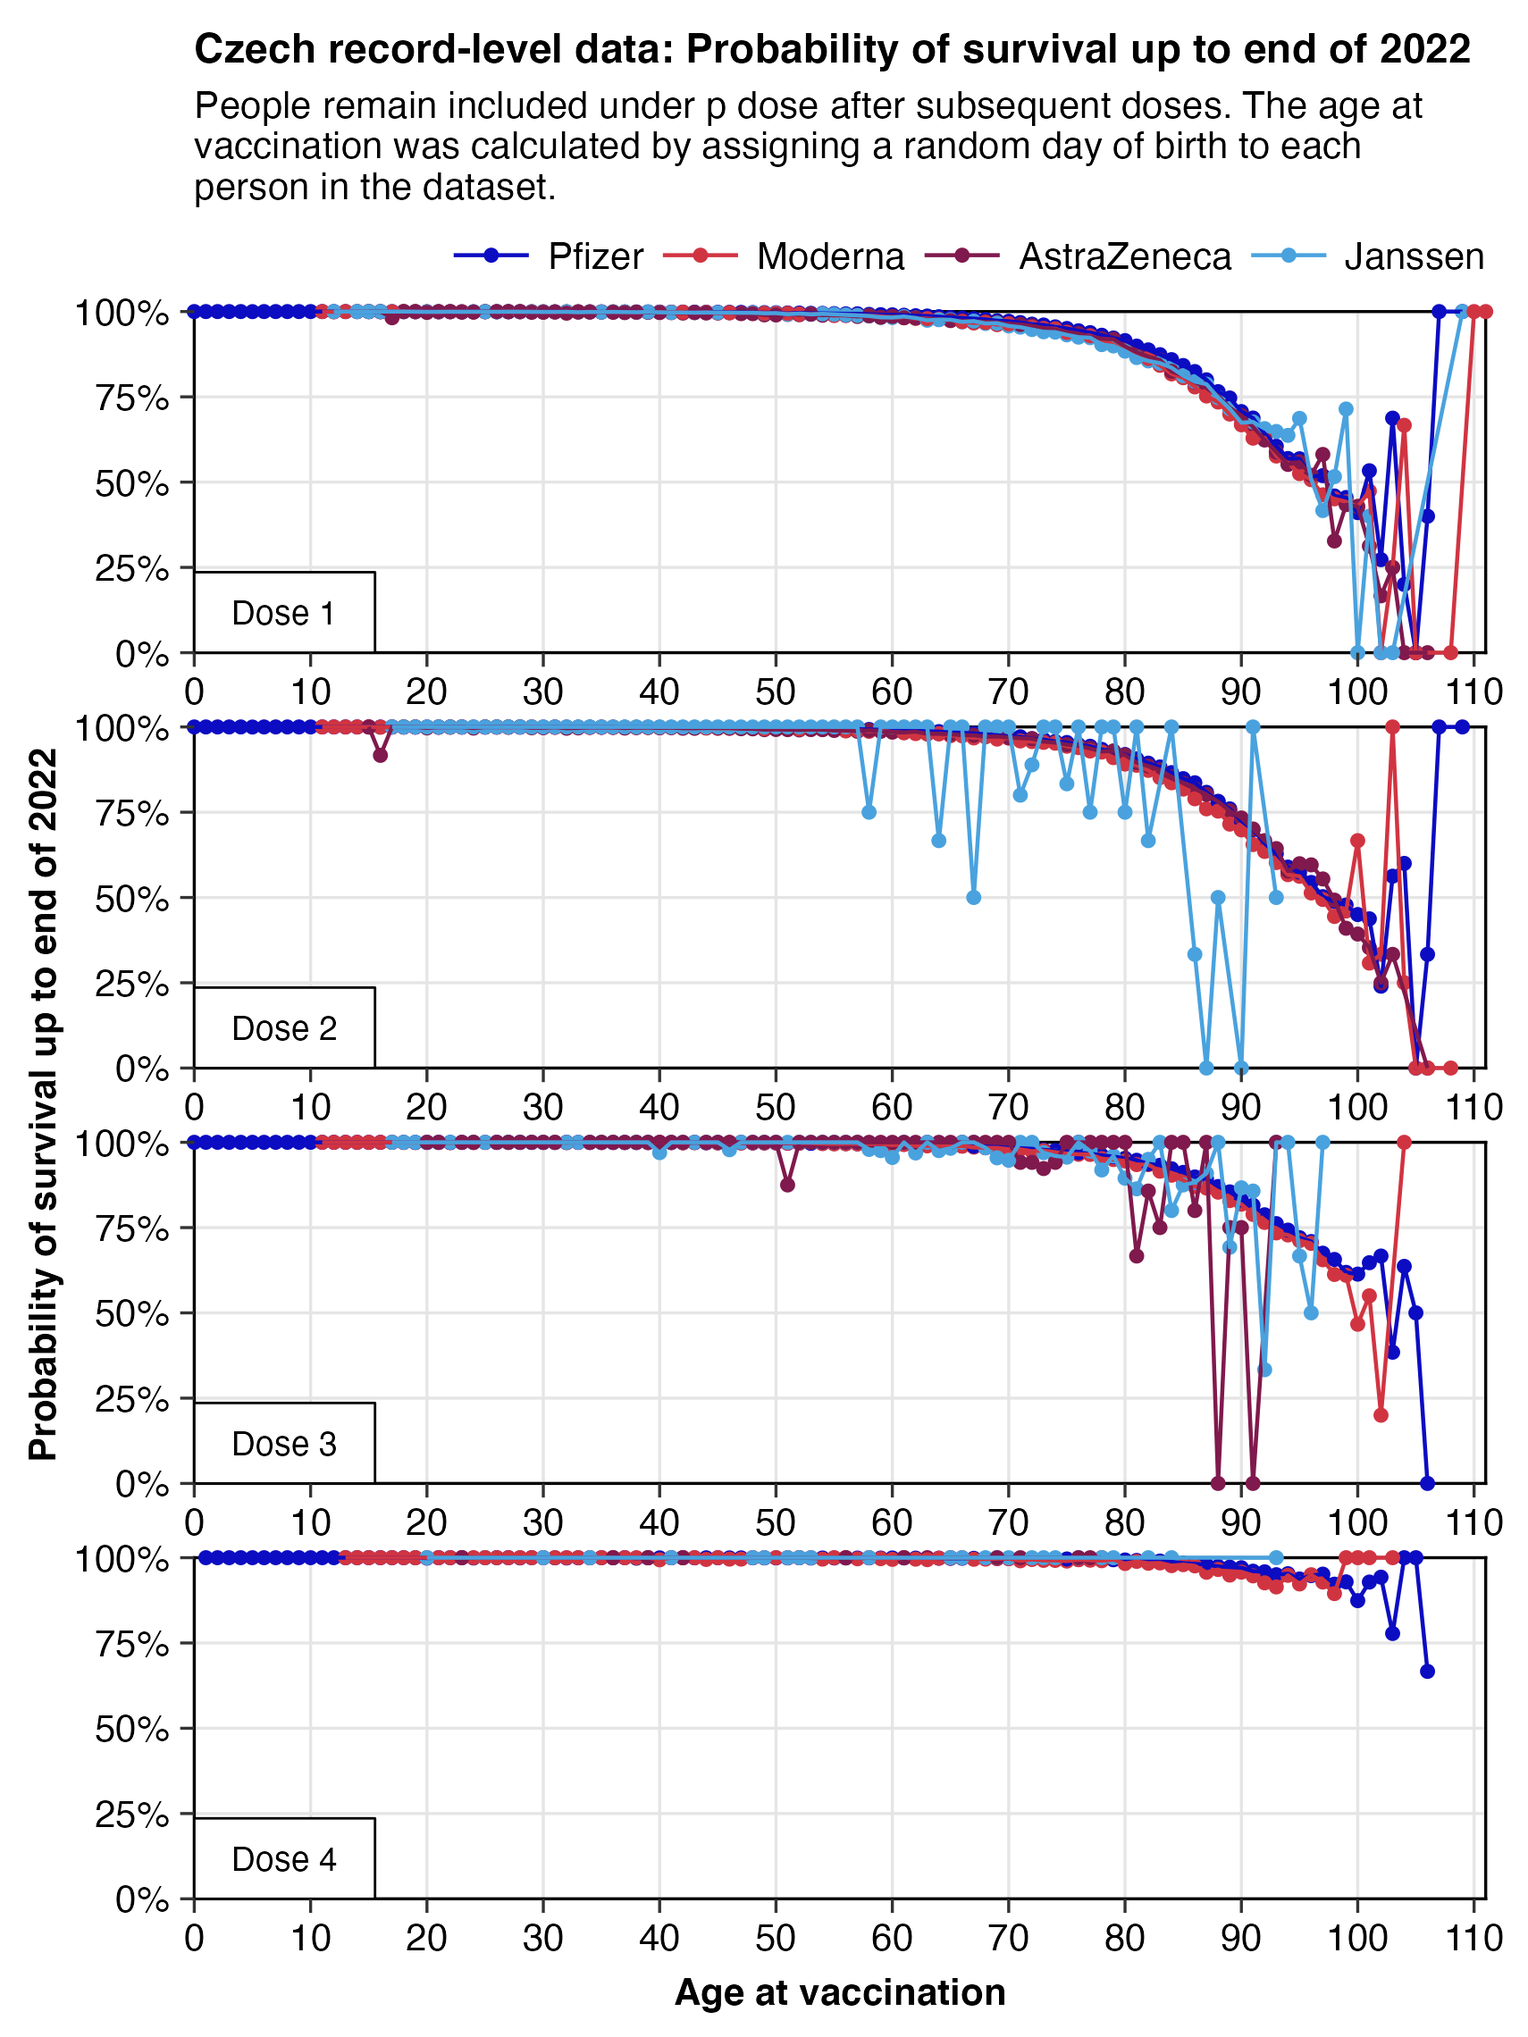
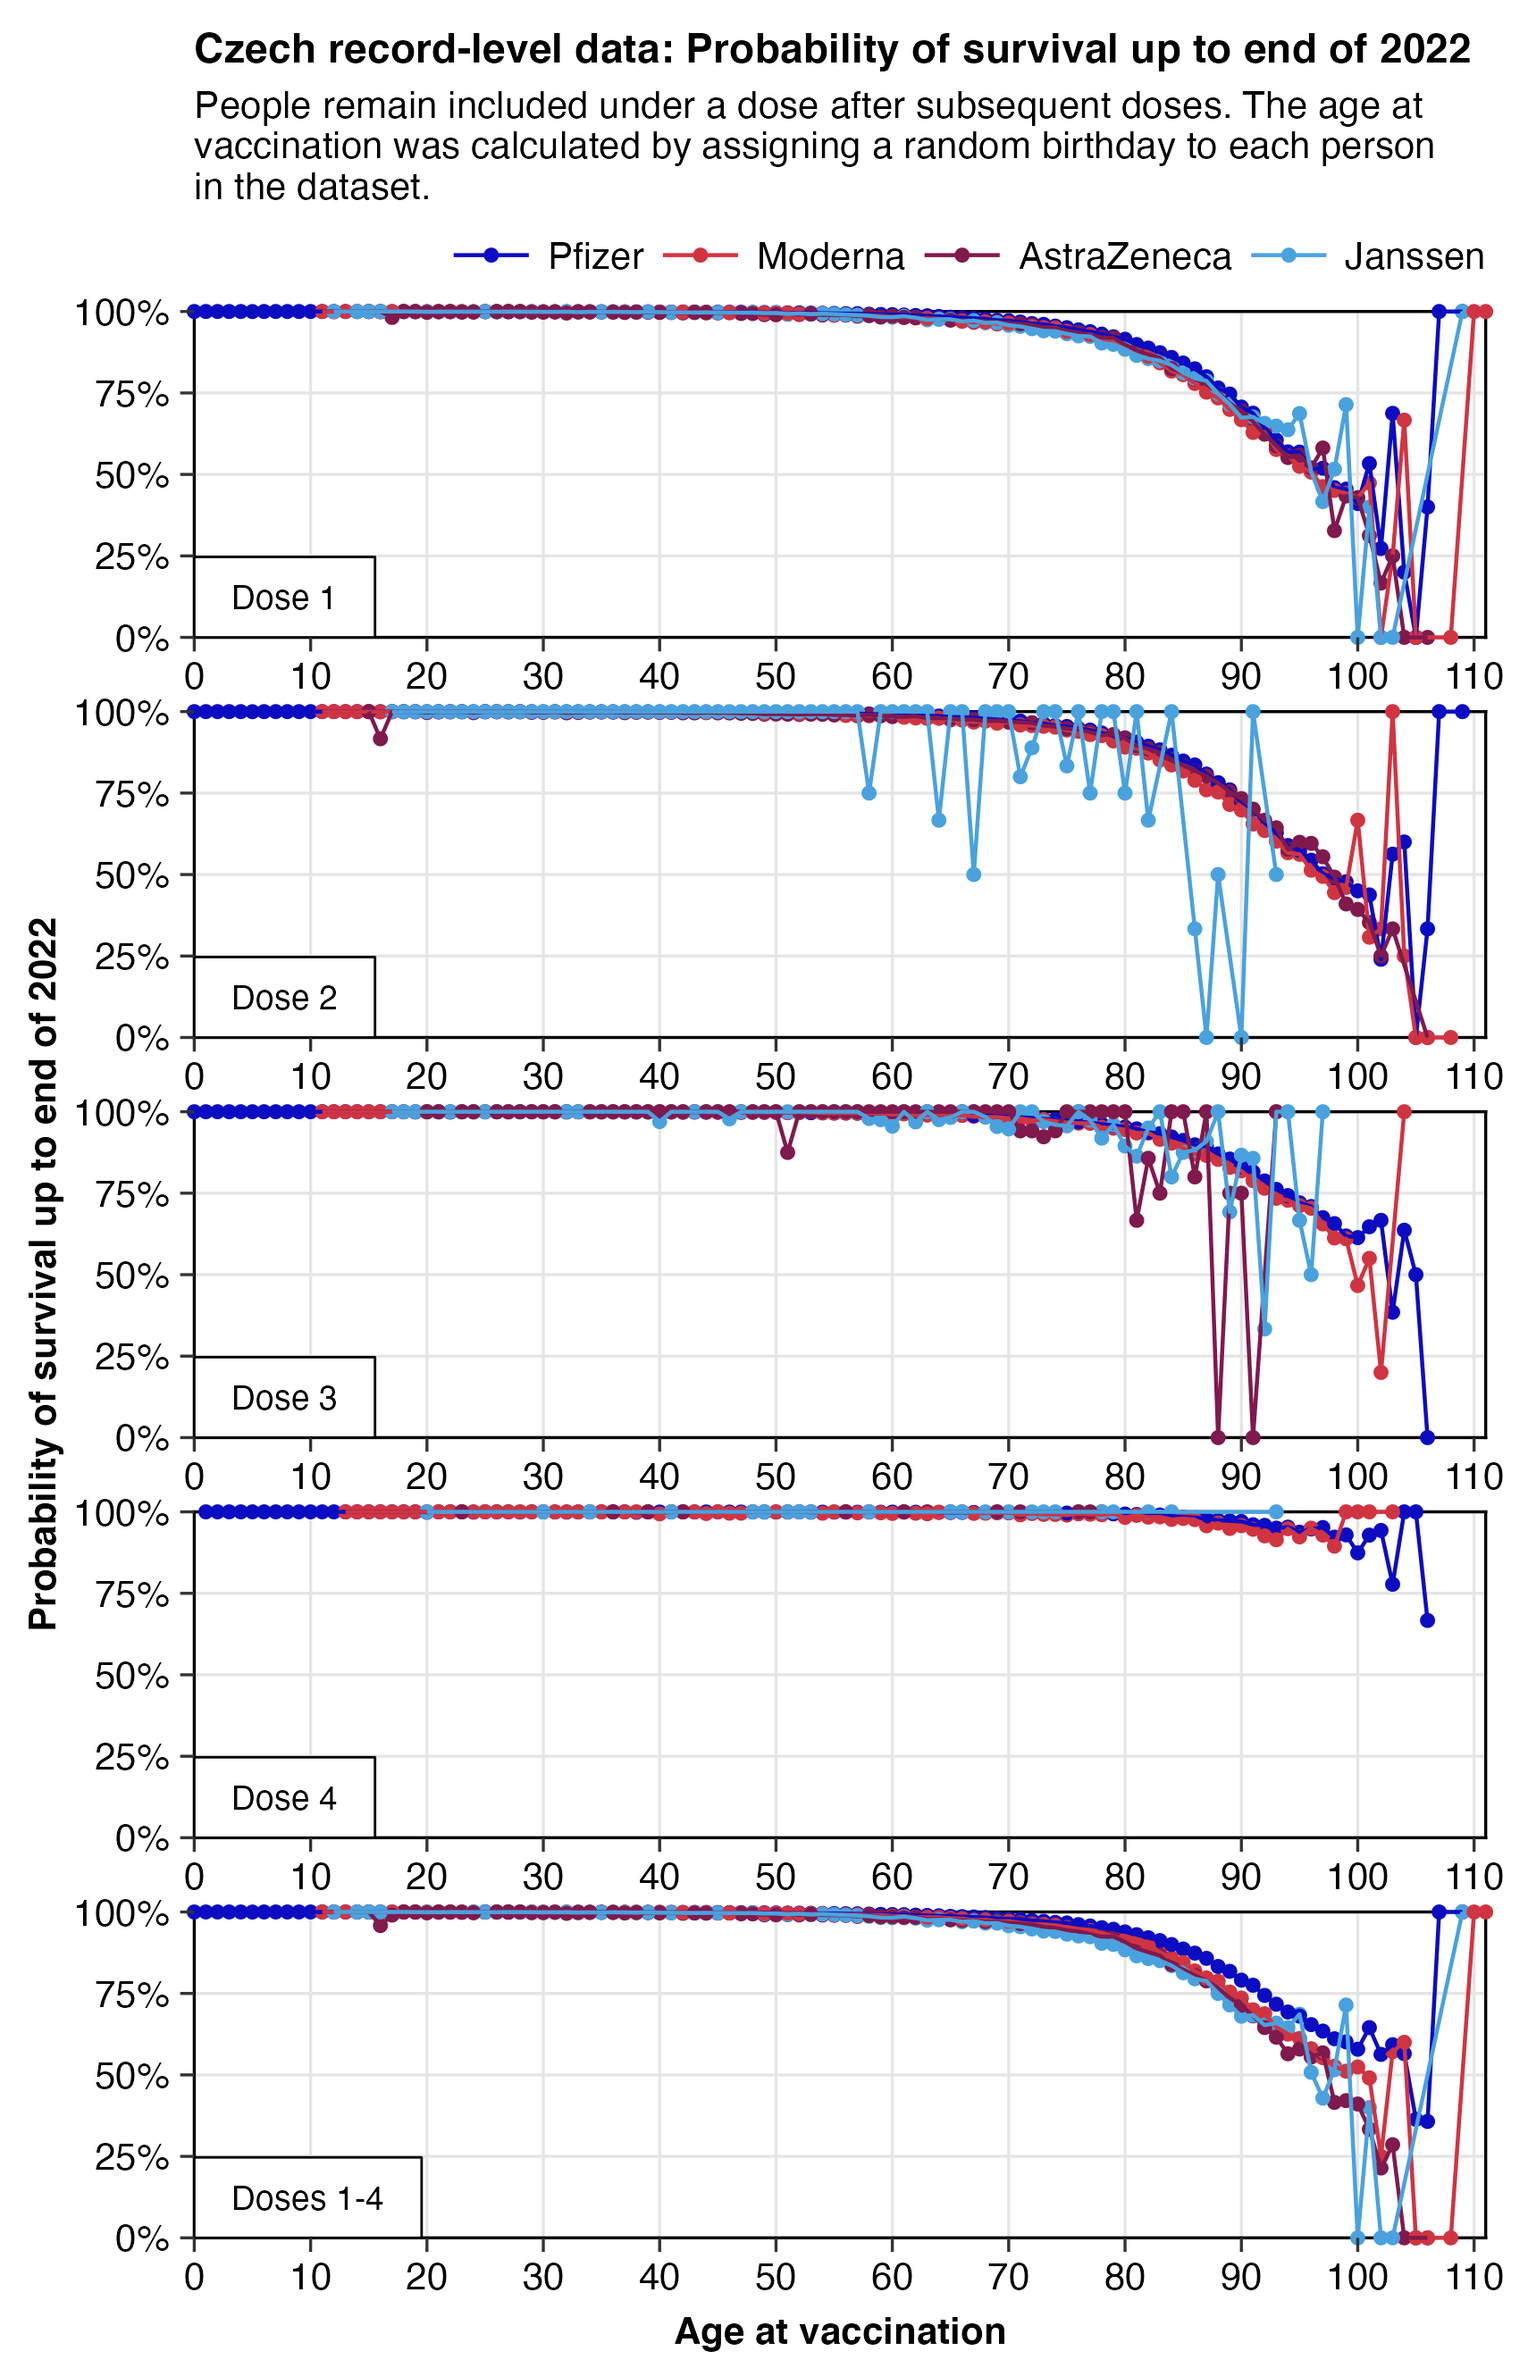
a

diff --git a/czech.html b/czech.html
@@ -2368,7 +2368,9 @@ name2[name1==&quot;COVID-19 Vaccine Janssen&quot;]=&quot;Janssen&quot;
 name2[name1==&quot;VAXZEVRIA&quot;]=&quot;AstraZeneca&quot;
 d$type=name2[match(d$type,name1)]
 
-p=d[dose&lt;=4&amp;type!=&quot;Novavax&quot;&amp;type!=&quot;Other&quot;&amp;type!=&quot;&quot;,.(pop=.N,dead=sum(!is.na(death))),.(age=age(birth,date),type,dose)]
+p=d[dose&lt;=4&amp;type!=&quot;Novavax&quot;&amp;type!=&quot;Other&quot;&amp;type!=&quot;&quot;]
+p=p[,.(pop=.N,dead=sum(!is.na(death))),.(age=age(birth,date),type,dose=paste0(&quot;Dose &quot;,dose))]
+p=rbind(p,p[,.(pop=sum(pop),dead=sum(dead),dose=&quot;Doses 1-4&quot;),.(age,type)])
 p[,survival:=(1-(dead/pop))*100]
 
 xstart=0;xend=max(p$age);xstep=10;ystart=0;yend=100;ystep=10
@@ -2377,7 +2379,7 @@ p$type=factor(p$type,p[,sum(as.double(pop)),type][order(-V1)]$type)
 color=hsv(c(240,355,330,204,36)/360,c(.94,.75,.8,.67,.64),c(.76,.82,.5,.87,.95))
 pointsize=c(1e4,3e4,1e5,3e5)
 
-sub=&quot;People remain included under p dose after subsequent doses. The age at vaccination was calculated by assigning a random day of birth to each person in the dataset.&quot;|&gt;stringr::str_wrap(73)
+sub=&quot;People remain included under a dose after subsequent doses. The age at vaccination was calculated by assigning a random birthday to each person in the dataset.&quot;|&gt;stringr::str_wrap(73)
 
 ggplot(p,aes(x=age,y=survival))+
 facet_wrap(~dose,ncol=1,scales=&quot;free_x&quot;,strip.position=&quot;top&quot;)+
@@ -2385,7 +2387,7 @@ geom_vline(xintercept=c(xstart,xend),linewidth=.3,lineend=&quot;square&quot;)+
 geom_hline(yintercept=c(ystart,yend),linewidth=.3,lineend=&quot;square&quot;)+
 geom_point(aes(color=type),size=1.5,stroke=0)+
 geom_line(aes(color=type),linewidth=.4)+
-geom_label(data=data.frame(dose=unique(p$dose)),aes(label=paste0(&quot;\n    Dose &quot;,dose,&quot;    \n&quot;)),x=xstart,y=0,lineheight=.7,hjust=0,vjust=0,size=2.5,fill=alpha(&quot;white&quot;,1),label.r=unit(0,&quot;lines&quot;),label.padding=unit(0,&quot;lines&quot;),label.size=.25)+
+geom_label(data=data.frame(dose=unique(p$dose)),aes(label=paste0(&quot;\n    &quot;,dose,&quot;    \n&quot;)),x=xstart,y=0,lineheight=.7,hjust=0,vjust=0,size=2.5,fill=alpha(&quot;white&quot;,1),label.r=unit(0,&quot;lines&quot;),label.padding=unit(0,&quot;lines&quot;),label.size=.25)+
 labs(title=&quot;Czech record-level data: Probability of survival up to end of 2022&quot;,x=&quot;Age at vaccination&quot;,y=&quot;Probability of survival up to end of 2022&quot;,subtitle=sub)+
 scale_x_continuous(limits=c(xstart,xend),breaks=seq(xstart,xend,xstep))+
 scale_y_continuous(labels=\(x)paste0(x,&quot;%&quot;))+
@@ -2401,7 +2403,7 @@ theme(axis.text=element_text(size=8,color=&quot;black&quot;),
   legend.key.height=unit(10,&quot;pt&quot;),
   legend.key.width=unit(20,&quot;pt&quot;),
   legend.key=element_rect(fill=&quot;white&quot;),
-  legend.margin=margin(0,0,7,0),
+  legend.margin=margin(,,7),
   legend.direction=&quot;horizontal&quot;,
   legend.box.just=&quot;right&quot;,
   legend.justification=c(1,.5),
@@ -2411,7 +2413,6 @@ theme(axis.text=element_text(size=8,color=&quot;black&quot;),
   legend.box.spacing=unit(0,&quot;pt&quot;),
   legend.spacing=unit(0,&quot;pt&quot;),
   legend.text=element_text(size=8),
-  # legend.title=element_text(size=8,face=&quot;bold&quot;,margin=margin(0,2,0,0)),
   legend.title=element_blank(),
   panel.background=element_rect(fill=&quot;white&quot;),
   panel.grid.major=element_line(linewidth=.3,color=&quot;gray90&quot;),
@@ -2421,11 +2422,11 @@ theme(axis.text=element_text(size=8,color=&quot;black&quot;),
   plot.margin=margin(5,9,5,5),
   plot.subtitle=element_text(size=8,margin=margin(,,5)),
   plot.title=element_text(size=8.8,face=&quot;bold&quot;,margin=margin(2,,4)))
-ggsave(&quot;1.png&quot;,width=4.5,height=6,dpi=380)</pre>
+ggsave(&quot;1.png&quot;,width=4.5,height=7,dpi=380)</pre>
 <h2>
 <a href=#ASMR_by_month_and_vaccine_type id=ASMR_by_month_and_vaccine_type>ASMR by month and vaccine type</a>
 </h2>
-<p>I figured out one way to compare the efficacy of different vaccine types, which is to look at how big the spike in ASMR is during the COVID wave in November to December 2021. However the spike seems to be lower for Pfizer and Moderna but higher for AstraZeneca and Janssen:</p>
+<p>I figured out one way to compare the efficacy of different vaccine types, which is to look at how big the spike in ASMR is during the COVID wave in November to December 2021. However the spike seems to be more flat for people whose first dose was Pfizer and Moderna, but the spike is more pronounced for people whose first dose was AstraZeneca and Janssen:</p>
 <div class="width6">
 <img src="i/czech-asmrtype.png">
 </div>
@@ -2483,8 +2484,7 @@ theme(axis.text=element_text(size=7,color=&quot;black&quot;),
   plot.margin=margin(4,10,4,4),
   plot.subtitle=element_text(size=7,margin=margin(0,0,4,0)),
   plot.title=element_text(size=7.5,face=&quot;bold&quot;,margin=margin(2,0,4,0)))
-ggsave(&quot;1.png&quot;,width=4.5,height=2.6,dpi=400)
-qp()</pre>
+ggsave(&quot;1.png&quot;,width=4.5,height=2.6,dpi=400)</pre>
 <script>
 let q=document.querySelectorAll('a,code,pre')
 for(let i=0;e=q[i];i++)e.innerHTML=e.innerHTML.replace(/(\w{60,})/g,x=>x.replace(/./g,"$&<wbr>")).replace(/([\041-\045\047-\057\072\075\077-\100\133-\137\173-\176])/g,"$1<wbr>")
